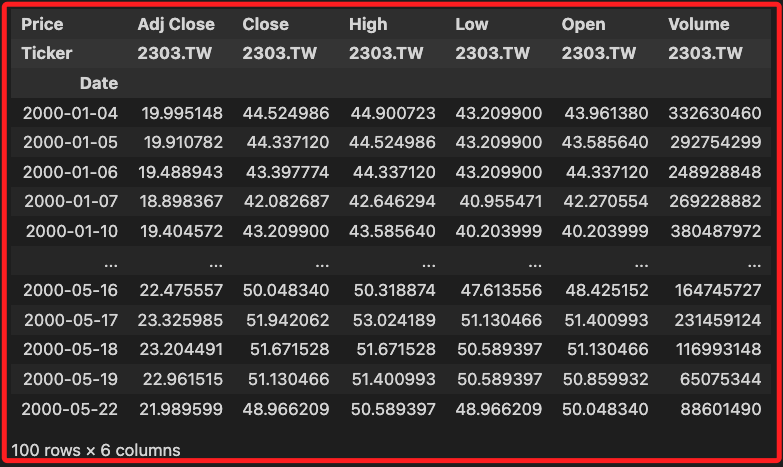
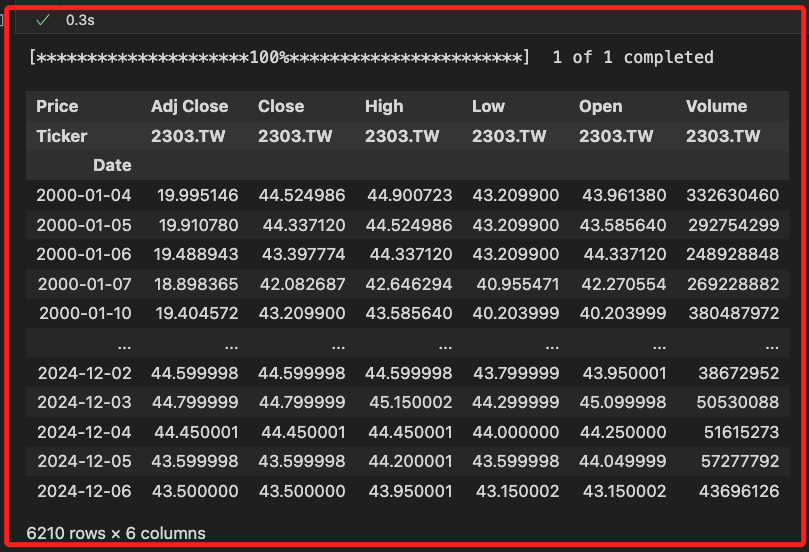
Commit on 2024-12-08 13:35:02

Changed region(s): [[0.0, 0.0, 1.0, 1.0]]

diff --git a/D73_網格交易測試/03_使用 yfinance.md b/D73_網格交易測試/03_使用 yfinance.md
@@ -130,15 +130,15 @@ _建立新的腳本_
 
 <br>
 
-2. 使用模組取得指定標的的數據，這裡已 `2303.TW` 為例。
+2. 使用模組取得指定標的的數據，這裡以 `2303.TW` 為例。
 
     ```python
-    # 商品名稱
+    # 標的名稱
     prod = "2303.TW"
-    # 取得全部資料
+    # 取得完整期間的數據，參數值設定為 `max`
     data = yf.download(prod, period="max")
-    # 擷取資料開頭
-    data.head(100)
+    # 輸出
+    data
     ```
 
     ![](images/img_09.png)
